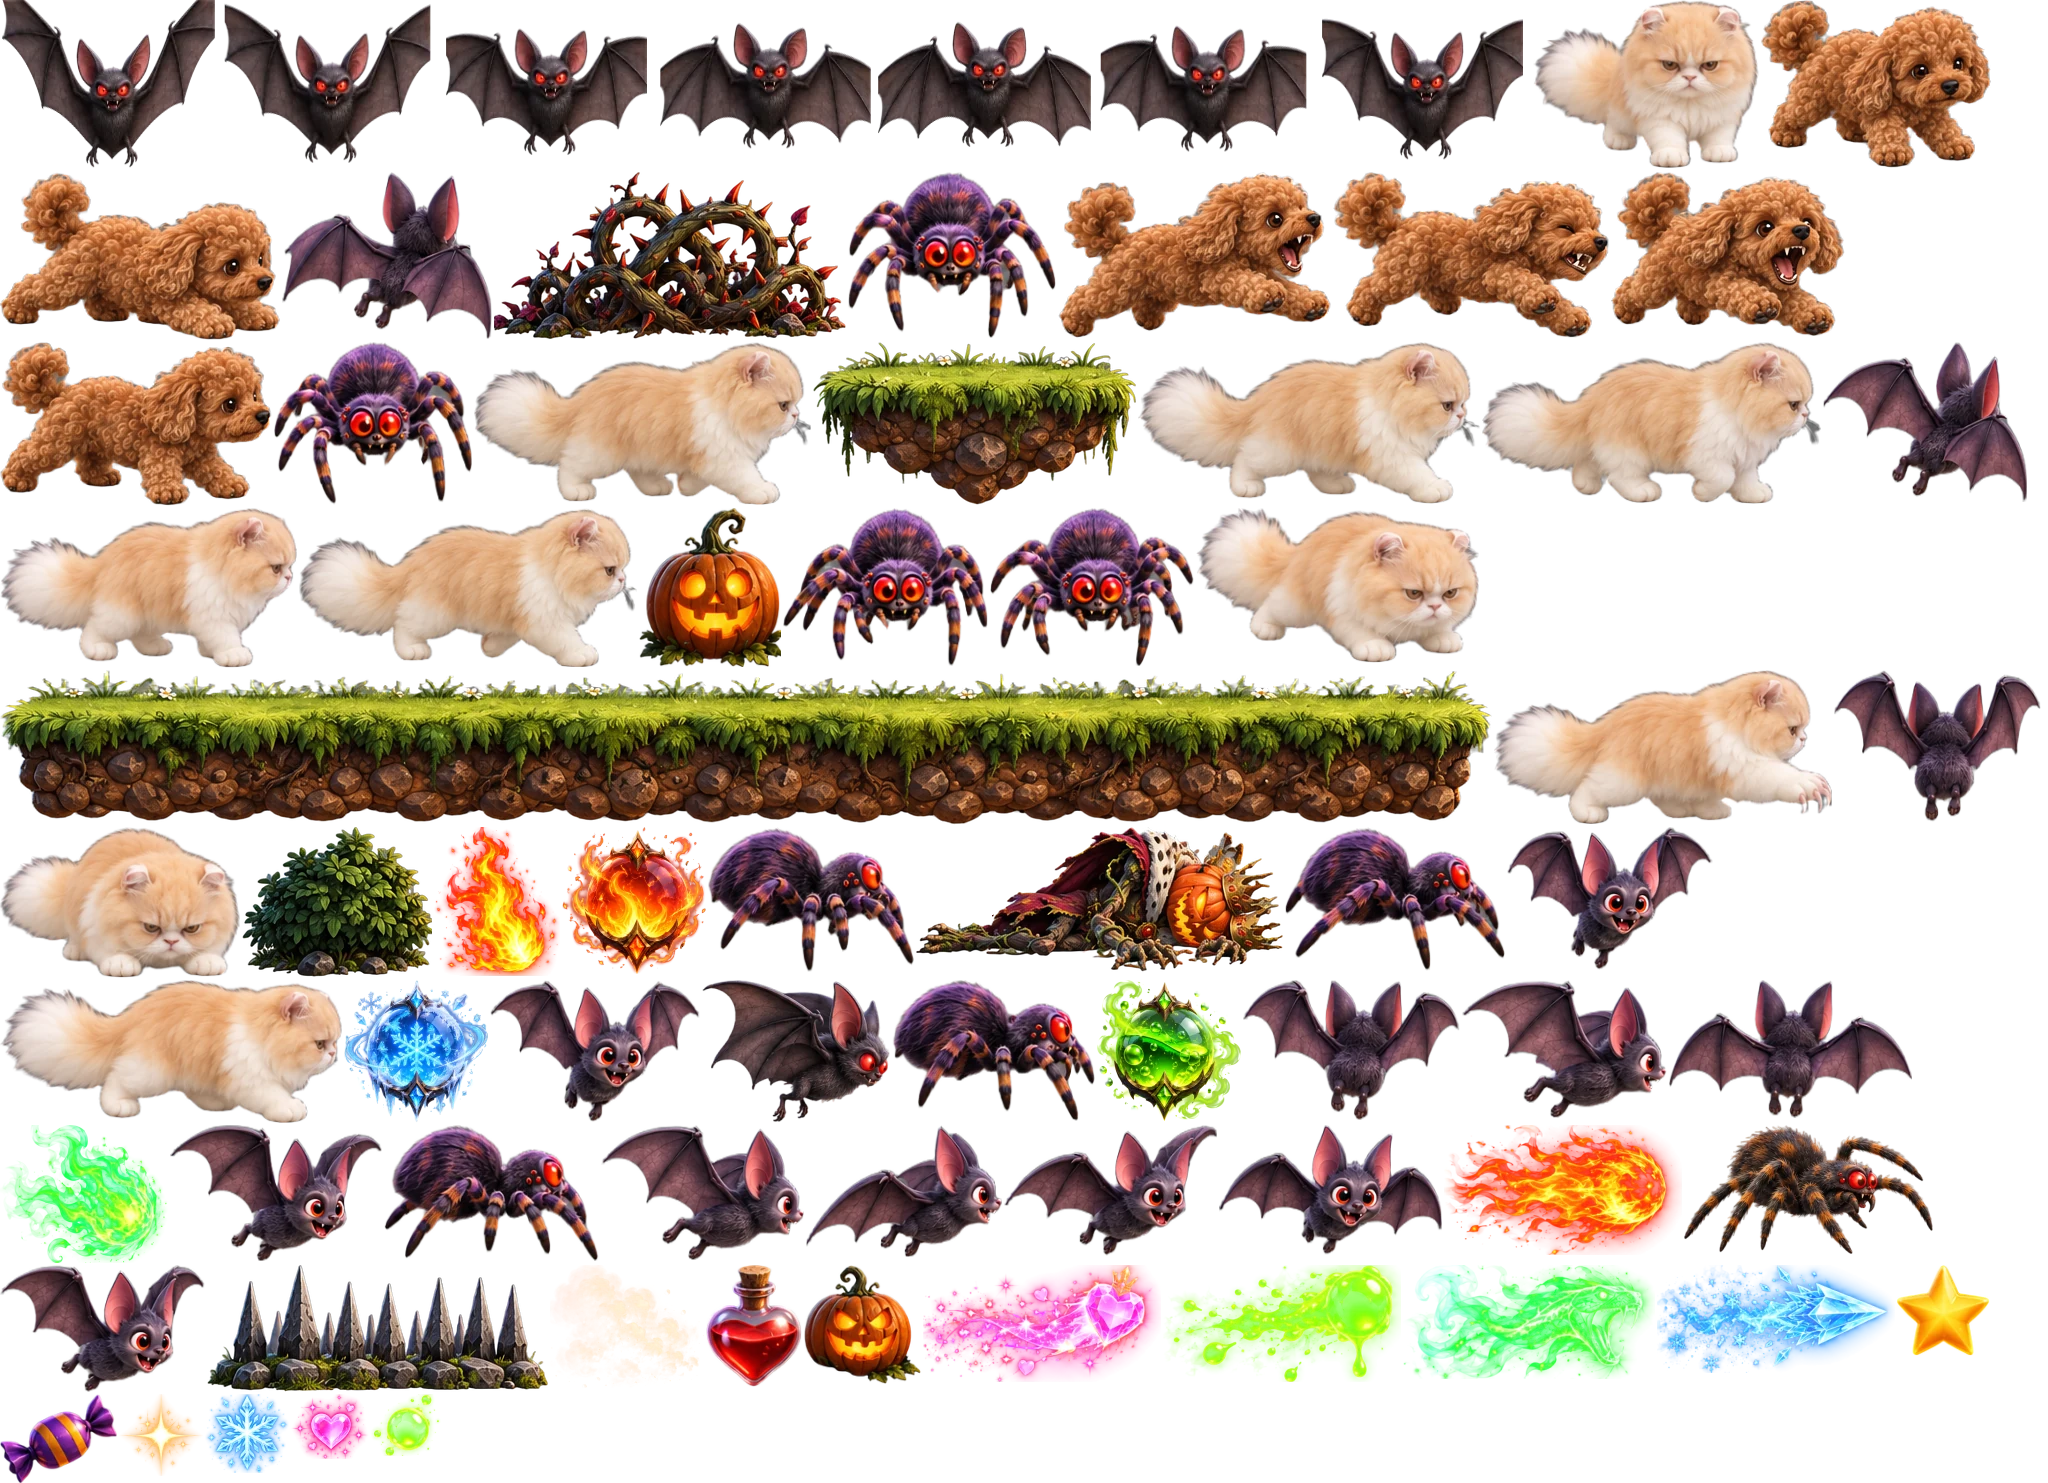
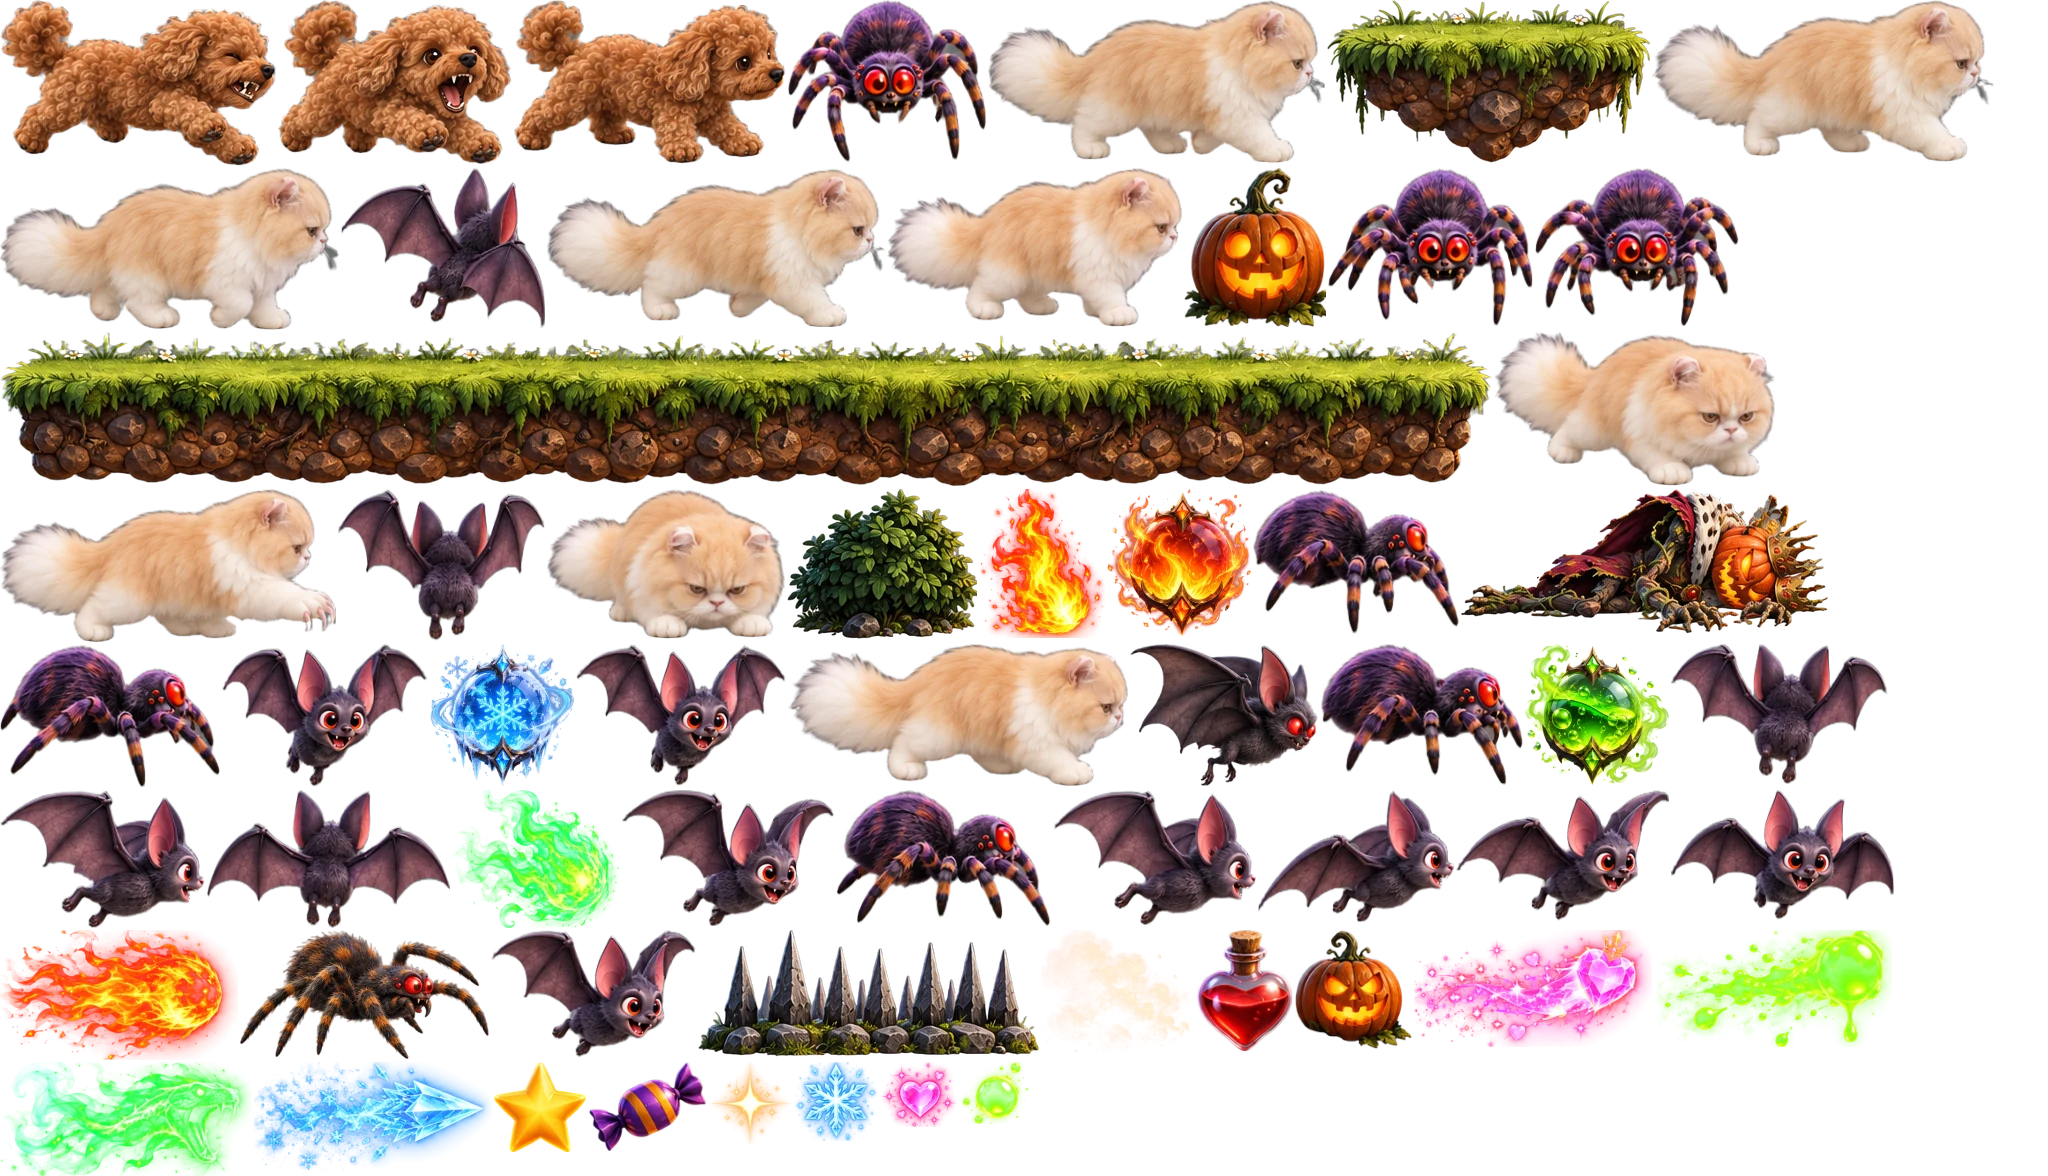
v3: dáng đi mới cho hai bé, kích cỡ đồng đều giữa đi và bắn, Mochi to hơn, Mochi 50% bắn thêm một tia, mỗi màn một kiểu đường
Claude-Session: https://claude.ai/code/session_018CdmaGRbzjkocUF5TVUzxd

diff --git a/index.html b/index.html
@@ -387,22 +387,22 @@
   // spawn: monsters per second at start / after the 5-minute ramp. camps: monster camps waiting beside the path.
   // gr: ground palette. deco: [sprite, weight] scattered beside the path. pets: caged friends to rescue along the path (PETS[k].at).
   const LEVELS = [
-    { name: "Màn 1: Đồng Cỏ Hoàng Hôn", seed: 1101, quota: 120, spawn: [0.7, 1.6], camps: 9, pets: ["cat", "dog"],
+    { name: "Màn 1: Đồng Cỏ Hoàng Hôn", seed: 1101, path: "river", quota: 120, spawn: [0.7, 1.6], camps: 9, pets: ["cat", "dog"],
       kinds: [["zombie", 3, 0], ["bat", 2, 0], ["skeleton", 2, 0.15], ["ghost", 2, 0.35]],
       deco: [["tree", 3], ["bush", 4], ["mushrooms", 1], ["pumpkin2", 1], ["pumpkin3", 1]],
       gr: { base: "#679c4a", patch: ["#84b75c", "#558a3e", "#76a94f"], blade: ["#93c96a", "#4f8a3a", "#a6d77a"], dot: ["#ffd3f0", "#fff3b0", "#ffffff", "#ff9ec7", "#c9b6ff"], nDot: 70,
         stone: ["#e3d4b4", "#d8c7a3", "#cdb995"], gap: "#9c8a6c", edge: "#6f5d44" } },
-    { name: "Màn 2: Rừng Ma", seed: 2207, quota: 140, spawn: [0.8, 1.7], camps: 10,
+    { name: "Màn 2: Rừng Ma", seed: 2207, path: "loop", quota: 140, spawn: [0.8, 1.7], camps: 10,
       kinds: [["spider", 3, 0], ["ghost", 2, 0], ["bat", 2, 0.1], ["mummy", 2, 0.3]],
       deco: [["tree", 4], ["mushrooms", 4], ["bush", 2], ["pumpkin3", 1]],
       gr: { base: "#3f5340", patch: ["#536b4a", "#2f3f34", "#4d4466", "#45405c"], blade: ["#5f7d55", "#2c3a2e", "#6b5f86"], dot: ["#b9a4ff", "#7cf2c6", "#e0b8ff"], nDot: 45,
         stone: ["#a3a69a", "#959a8c", "#8a9180"], gap: "#5a5e55", edge: "#2a302c" } },
-    { name: "Màn 3: Nghĩa Địa Trăng Máu", seed: 3313, quota: 160, spawn: [0.8, 1.8], camps: 11,
+    { name: "Màn 3: Nghĩa Địa Trăng Máu", seed: 3313, path: "maze", quota: 160, spawn: [0.8, 1.8], camps: 11,
       kinds: [["skeleton", 3, 0], ["bat", 2, 0], ["mummy", 2, 0.1], ["witch", 1, 0.25], ["vampire", 1, 0.45]],
       deco: [["grave1", 3], ["grave2", 3], ["tree", 1], ["pumpkin3", 1], ["pumpkin1", 1]],
       gr: { base: "#4f4a5a", patch: ["#5d5768", "#423d4c", "#5a5a4a", "#5b4a5e"], blade: ["#6a6577", "#3d3846", "#6e6a52"], dot: ["#d8d0e8", "#ff9ab8"], nDot: 30,
         stone: ["#bdb5bf", "#aea5b2", "#a39aa8"], gap: "#6e6578", edge: "#35303d" } },
-    { name: "Màn 4: Lâu Đài Phù Thuỷ", seed: 4421, quota: 150, spawn: [0.8, 1.8], camps: 10, arena: true,
+    { name: "Màn 4: Lâu Đài Phù Thuỷ", seed: 4421, path: "spiral", quota: 150, spawn: [0.8, 1.8], camps: 10, arena: true,
       kinds: [["skeleton", 2, 0], ["bat", 2, 0], ["mummy", 2, 0.05], ["witch", 2, 0.15], ["vampire", 2, 0.3]],
       deco: [["pumpkin1", 3], ["pumpkin2", 3], ["pumpkin3", 2], ["grave2", 1], ["bush", 1]],
       gr: { base: "#5a5660", patch: ["#66616d", "#4b4852", "#55604f"], blade: ["#6d6977", "#46424d"], dot: ["#f6c453"], nDot: 12, tiles: true,
@@ -511,18 +511,41 @@
 
   // ---------------------------------------------------------------- map generation
   // A winding path: Catmull-Rom spline through 10-14 control points zig-zagging across the world, resampled every STEP units.
-  function genPath(L, R) {
-    const n = 15 + Math.floor(R() * 5), a0 = R() * TAU, c = WORLD / 2, rad = WORLD * (L.arena ? 0.3 : 0.36);
-    const sx = c + Math.cos(a0) * rad, sy = c + Math.sin(a0) * rad, ex = c - Math.cos(a0) * rad, ey = c - Math.sin(a0) * rad;
-    const jit = Array.from({ length: n * 3 }, R);
-    let amp = 1, best = null;
-    for (let tries = 0; tries < 12; tries++) {
-      const dx = ex - sx, dy = ey - sy, ln = Math.hypot(dx, dy), nx = -dy / ln, ny = dx / ln, cps = [];
-      for (let i = 0; i < n; i++) {
-        const t = i / (n - 1), mid = i > 0 && i < n - 1;
-        const off = mid ? (i % 2 ? 1 : -1) * (300 + jit[i * 3] * 450) * amp : 0, along = mid ? (jit[i * 3 + 1] - 0.5) * 160 : 0;
-        cps.push([clamp(sx + dx * t + nx * off + dx / ln * along, 450, WORLD - 450), clamp(sy + dy * t + ny * off + dy / ln * along, 450, WORLD - 450)]);
+  // Each level has its own path shape (L.path); amp is tuned until the walk is 17.5-21k units long.
+  //  river:  a few wide, lazy S-bends across the meadow
+  //  loop:   a road that curls once right round in the middle of the forest
+  //  maze:   long straight runs joined by tight turns, like rows between graves
+  //  spiral: winds inward around the castle to the arena in the middle
+  function pathCps(shape, R, amp) {
+    const c = WORLD / 2, a0 = R() * TAU, ca = Math.cos(a0), sa = Math.sin(a0);
+    const rot = (u, v) => [c + u * ca - v * sa, c + u * sa + v * ca];   // (u along the main axis, v across it)
+    const cps = [];
+    if (shape === "river") {
+      const n = 8, half = WORLD * 0.38, ph = R() < 0.5 ? 0 : Math.PI;
+      for (let i = 0; i < n; i++) { const t = i / (n - 1); cps.push(rot(-half + 2 * half * t, Math.sin(t * Math.PI * 2.5 + ph) * 1500 * amp * (i && i < n - 1 ? 1 : 0.4))); }
+    } else if (shape === "loop") {
+      const half = WORLD * 0.38, r = 1250 * Math.min(1.4, amp), side = R() < 0.5 ? 1 : -1;
+      cps.push(rot(-half, -600 * side), rot(-half * 0.55, 500 * side), rot(-r * 1.1, 0));
+      // the curl: once around a circle beside the road
+      for (let k = 1; k <= 7; k++) { const a = -Math.PI / 2 + k / 8 * TAU; cps.push(rot(Math.cos(a) * r, side * (r + Math.sin(a) * r))); }
+      cps.push(rot(r * 1.1, 0), rot(half * 0.55, -500 * side * amp), rot(half, 600 * side));
+    } else if (shape === "maze") {
+      const runs = 4, w = WORLD * 0.36 * Math.min(1.25, amp), h = WORLD * 0.62, dir0 = R() < 0.5 ? 1 : -1;
+      for (let k = 0; k < runs; k++) {
+        const v = -h / 2 + k / (runs - 1) * h, d = (k % 2 ? -1 : 1) * dir0;
+        cps.push(rot(-w * d, v), rot(-w * 0.3 * d, v + (R() - 0.5) * 120), rot(w * 0.35 * d, v + (R() - 0.5) * 120), rot(w * d, v));
       }
+    } else {   // spiral
+      const turns = 0.85 * amp, r0 = WORLD * 0.42, r1 = ARENA_R + 900, n = 20, spin = R() < 0.5 ? 1 : -1;
+      for (let i = 0; i < n; i++) { const t = i / (n - 1), r = r0 + (r1 - r0) * Math.pow(t, 0.8); cps.push(rot(Math.cos(spin * t * turns * TAU) * r, Math.sin(spin * t * turns * TAU) * r)); }
+    }
+    return cps.map(([x, y]) => [clamp(x, 450, WORLD - 450), clamp(y, 450, WORLD - 450)]);
+  }
+  function genPath(L, R) {
+    const seed = R() * 1e9;
+    let amp = 1, best = null;
+    for (let tries = 0; tries < 14; tries++) {
+      const cps = pathCps(L.path || "river", mulberry(seed), amp), n = cps.length;
       const raw = [];
       for (let i = 0; i < n - 1; i++) {
         const p0 = cps[Math.max(0, i - 1)], p1 = cps[i], p2 = cps[i + 1], p3 = cps[Math.min(n - 1, i + 2)];
@@ -546,7 +569,7 @@
         acc += seg;
       }
       best = { x: xs, y: ys, n: xs.length, len: (xs.length - 1) * STEP, cps };
-      if (best.len > 21000) amp *= 0.85; else if (best.len < 17500) amp *= 1.15; else break;
+      if (best.len > 21000) amp *= 0.88; else if (best.len < 17500) amp *= 1.12; else break;
     }
     return best;
   }
@@ -1040,11 +1063,16 @@
       fireBolt(a, S);
       if (i === 0 && !P.moving) setFace(P, Math.cos(a), Math.sin(a));
     }
+    // Mochi's gift: half the time one more heart flies out, a little off to the side
+    if (hero === "g" && Math.random() < 0.5) {
+      const t = T[Math.floor(Math.random() * T.length)];
+      fireBolt(Math.atan2(t.y - P.y, t.x - P.x) + (Math.random() < 0.5 ? -1 : 1) * 0.12, S);
+    }
     play("zap");
   }
   // where the wand tip is, per facing (0 down .. 4 up, x mirrored when she faces left), relative to her feet;
   // the bolt flies at BOLT_Z above the ground, so y here is ground-level (tip height - BOLT_Z)
-  const WAND = { g: [[42, 30], [55, 21], [63, 19], [64, 10], [45, 10]], s: [[64, 18], [74, 7], [83, 7], [75, 9], [40, 0]] };
+  const WAND = { g: [[70, -16], [89, -30], [106, -33], [101, -47], [74, -47]], s: [[104, -29], [119, -45], [131, -45], [124, -42], [40, 0]] };
   function wandTip(hk, face, flip) { const w = (WAND[hk] || WAND.g)[clamp(face, 0, 4)]; return [w[0] * (flip ? -1 : 1), w[1]]; }
   function fireBolt(a, S) {
     // from the wand tip, unless the target is behind her (then from her body, as the wand points the other way)
